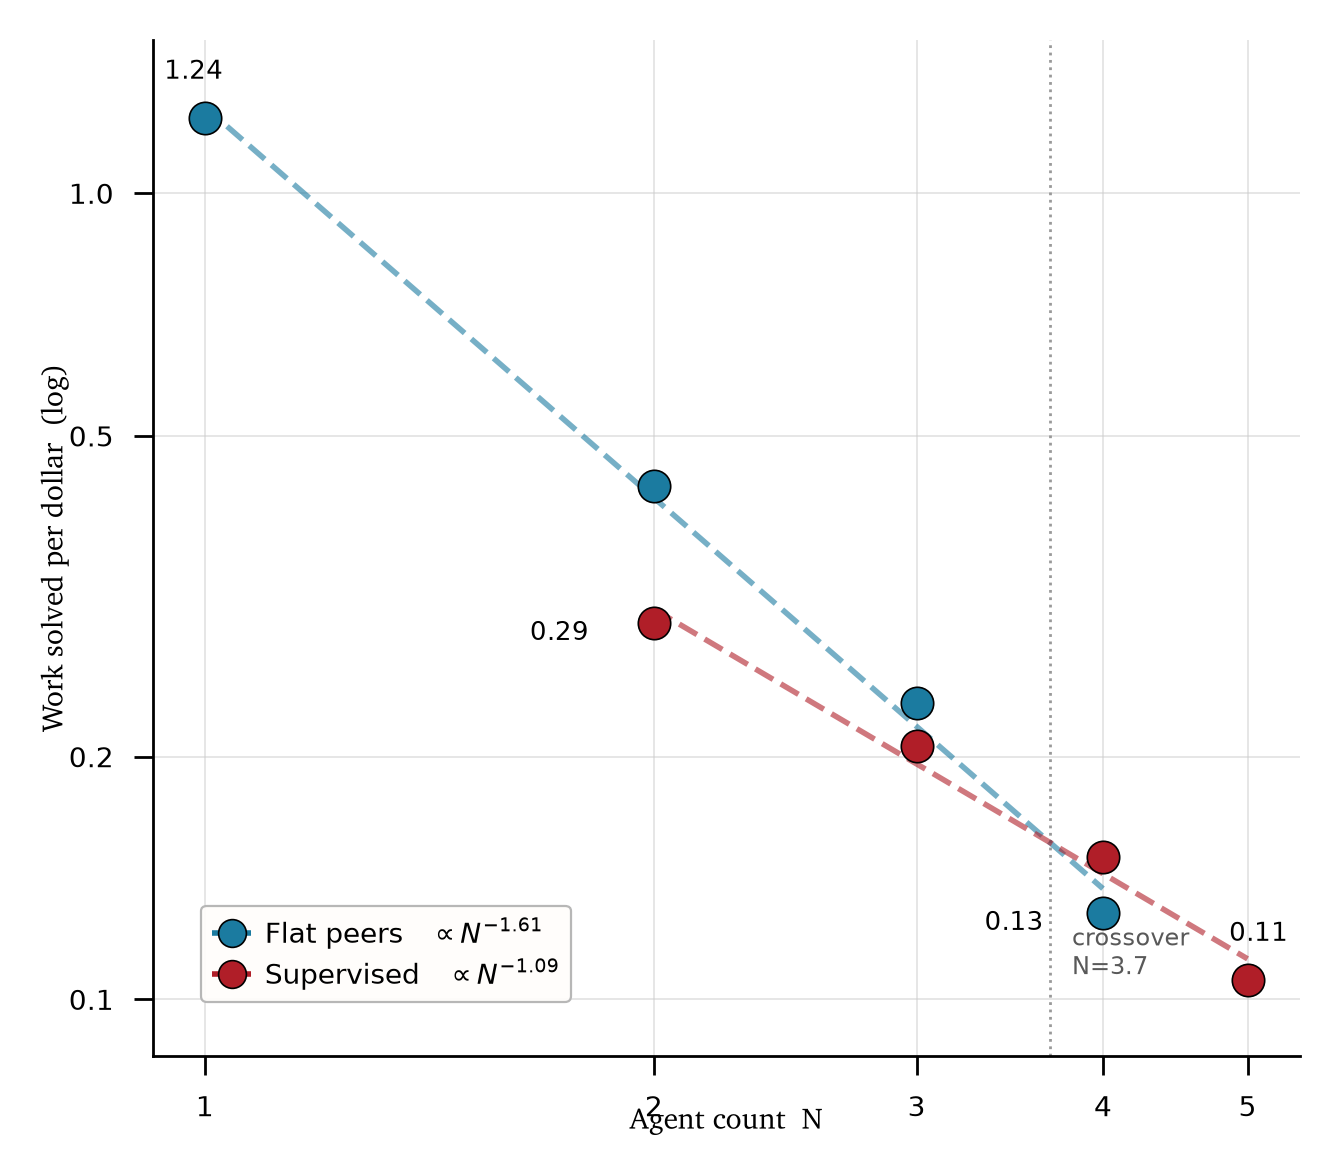
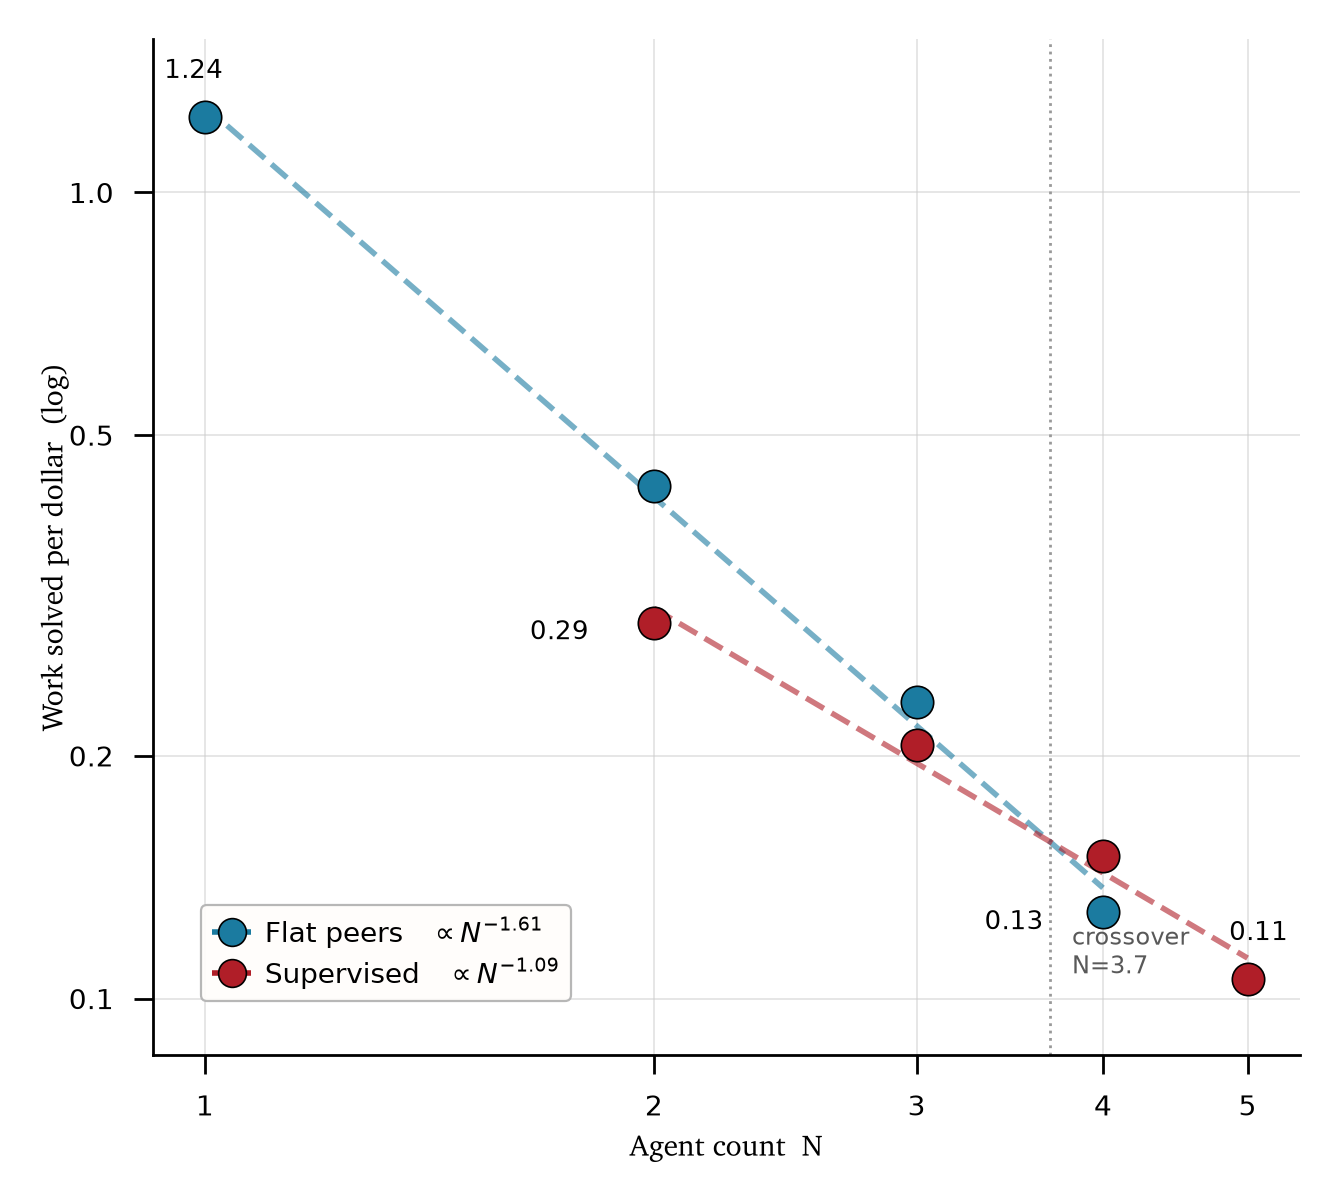
fig3: drop the x-axis label clear of the tick labels
The fig2 house style tucks "Agent count N" in tight (labelpad=-3),
which works on its linear axes but collides with the tick labels on
every fig3 axis — the log scale on 3a, and the taller tick stack on
3b-3d. Set labelpad=+2 once in this suite's own chrome so all four
figures stay internally consistent; the fig2 suite is unchanged.

diff --git a/masters_thesis/leader_analysis/figures.py b/masters_thesis/leader_analysis/figures.py
@@ -91,7 +91,10 @@ def _fig2_chrome(fig, ax, ns, ylabel):
     look dialled in on fig2a. Axis labels use Charter; everything else (ticks,
     legend, value labels) stays in the crisp sans default."""
     ax.set_ylabel(ylabel, fontsize=5.3, labelpad=0, color="black", fontname="Charter")
-    ax.set_xlabel("Agent count  N", fontsize=5.3, labelpad=-3, color="black",
+    # labelpad: the fig2 suite tucks this to -3, which collides with the tick
+    # labels on the fig3 axes (log scale on 3a, paired bars on 3c). +2 across
+    # the whole fig3 suite keeps it clear and internally consistent.
+    ax.set_xlabel("Agent count  N", fontsize=5.3, labelpad=2, color="black",
                   fontname="Charter")
     ax.set_xticks(ns)
     ax.tick_params(axis="both", labelsize=5, labelcolor="black", color="black",
